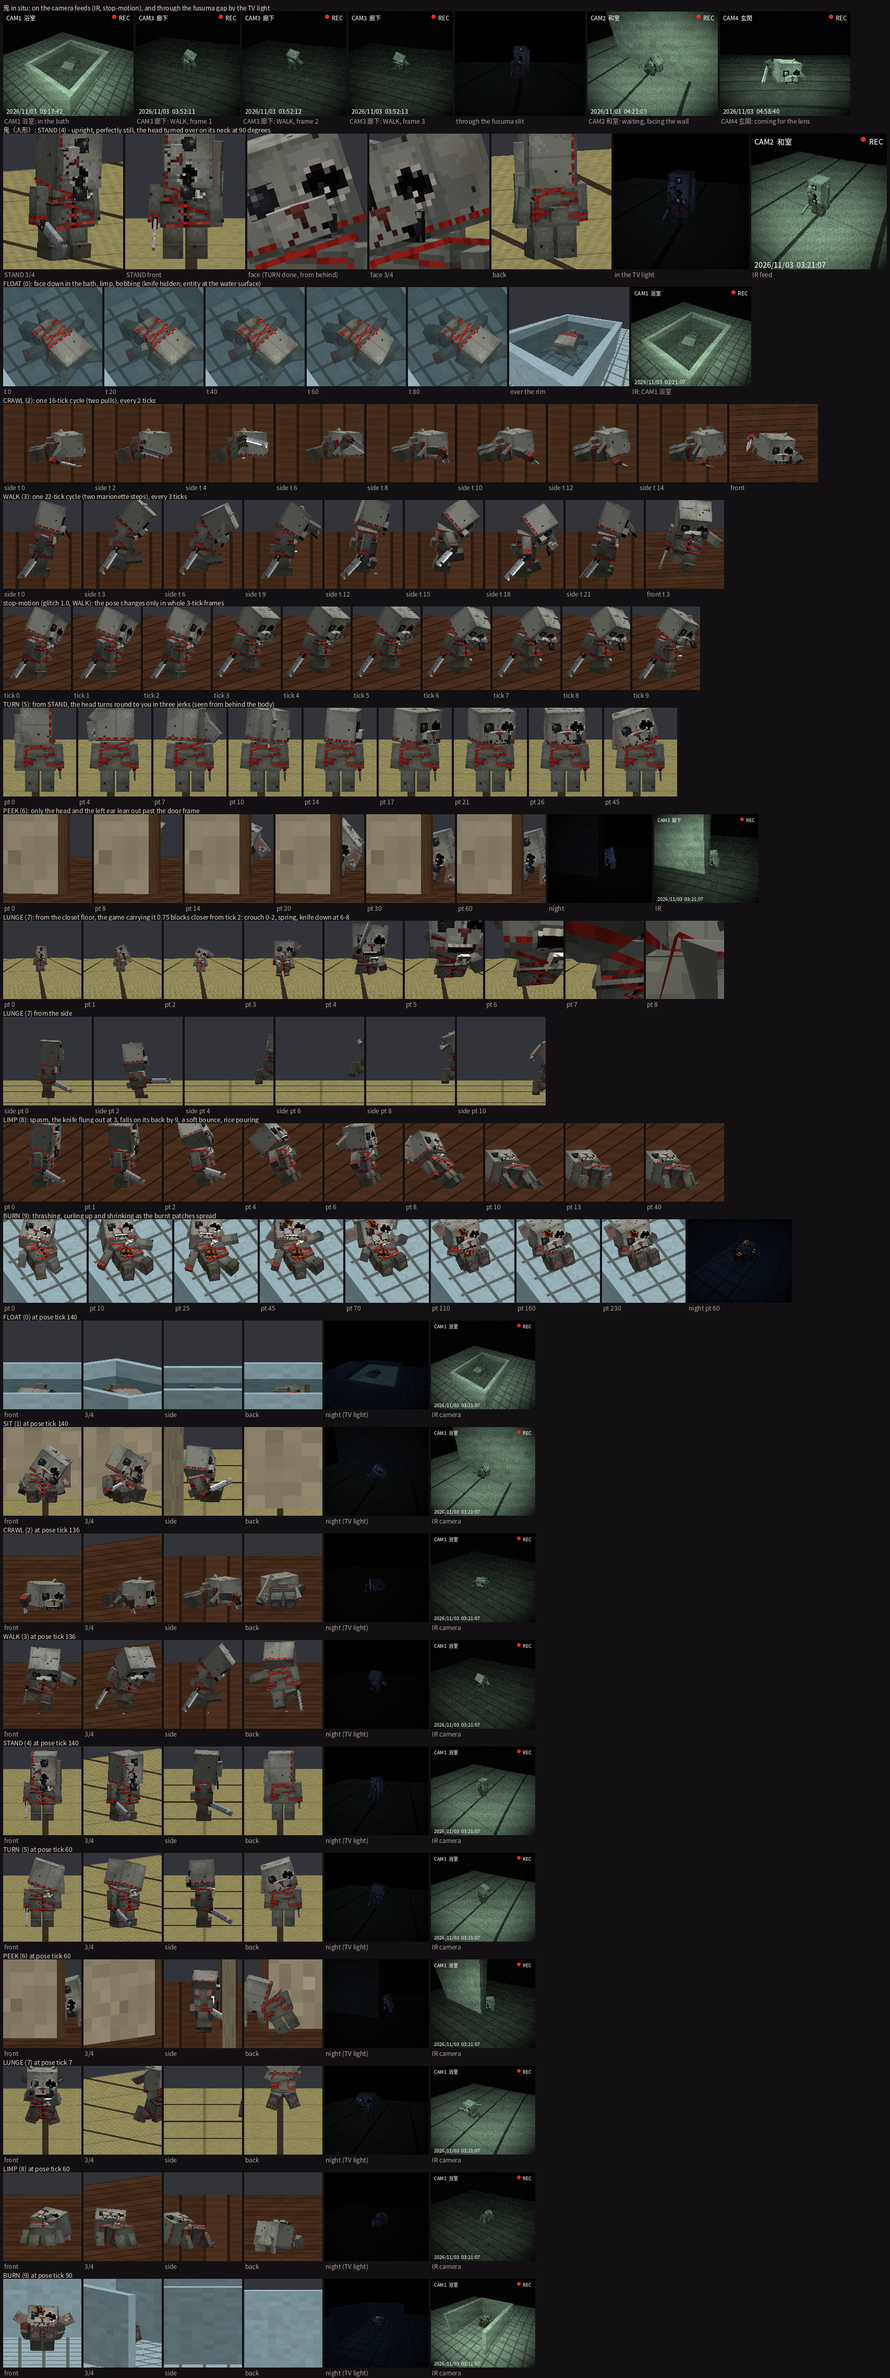
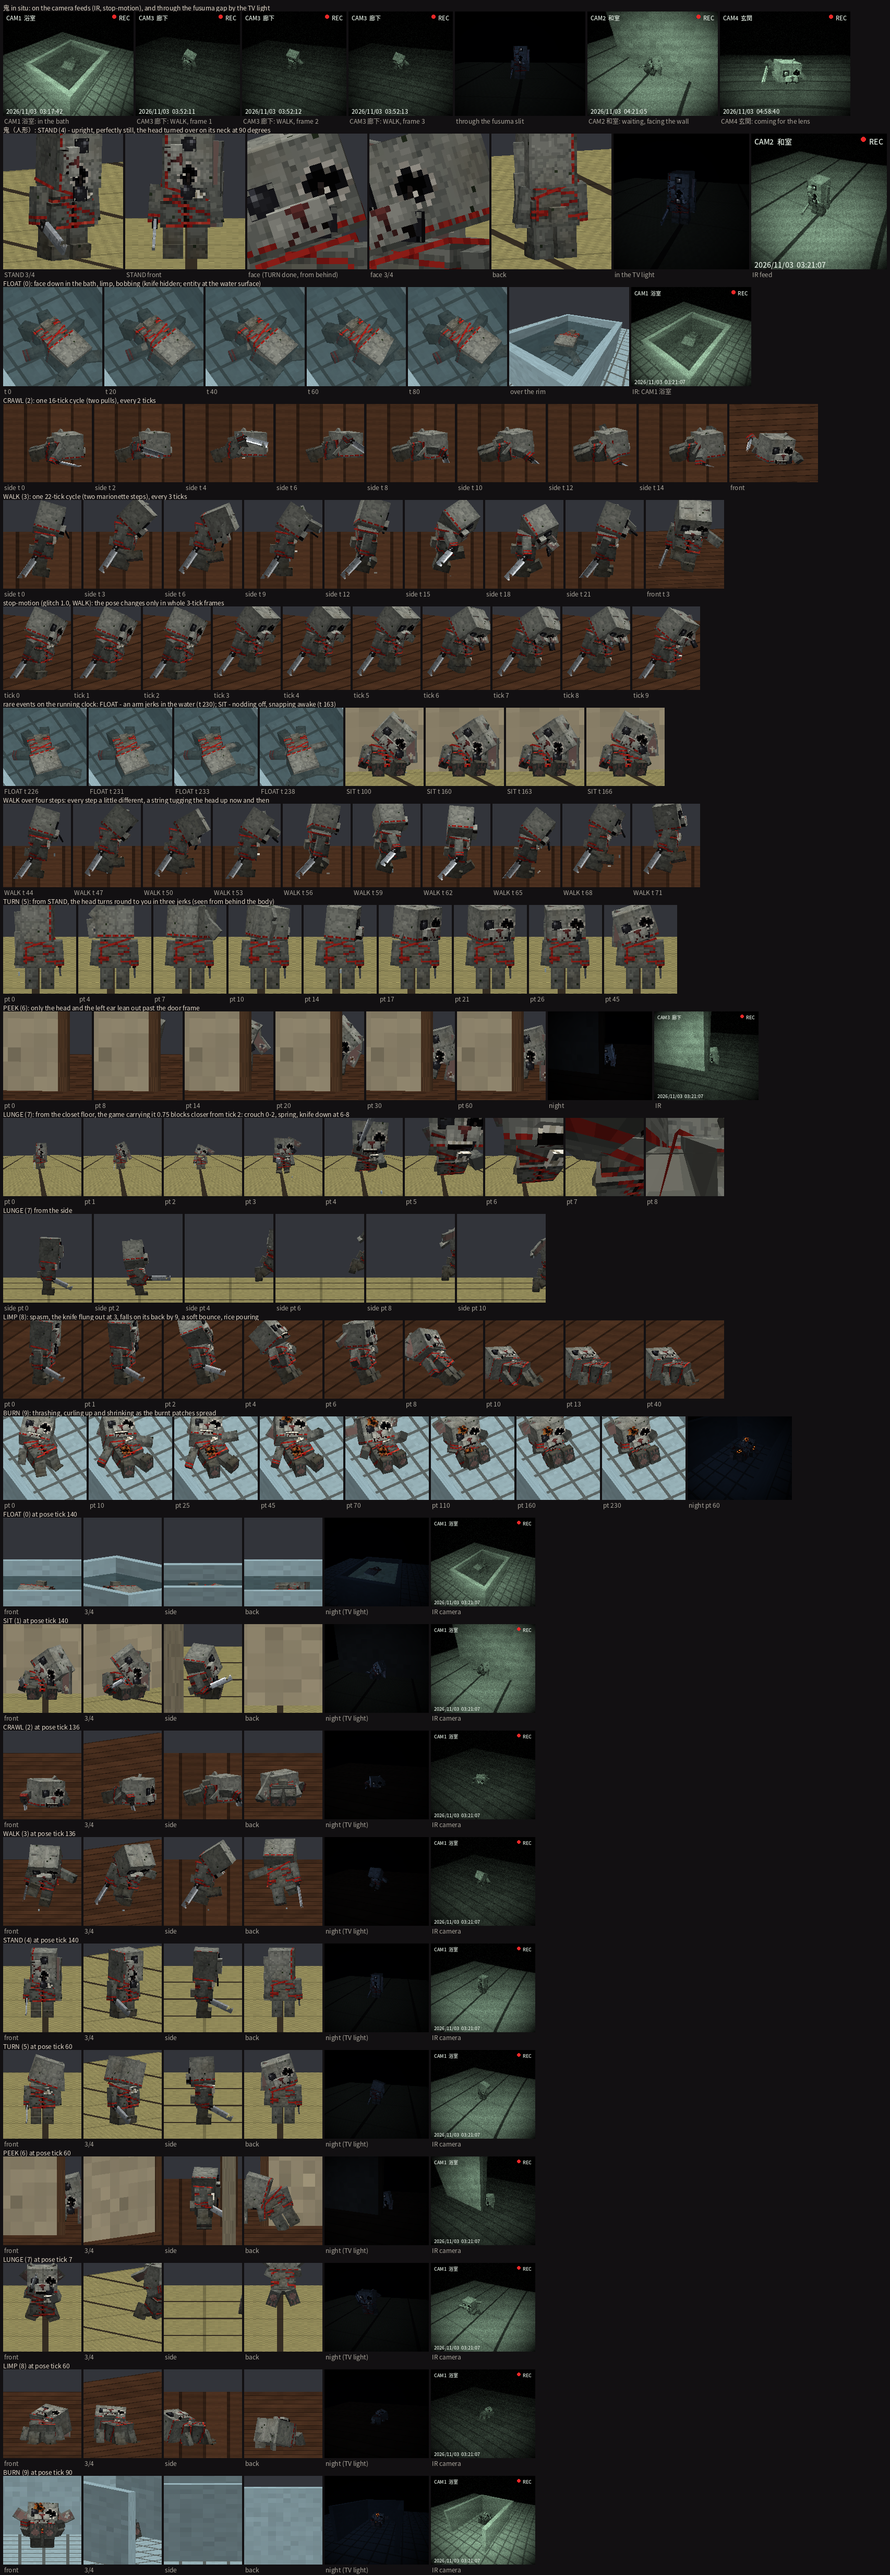
Doll: matted wet-fur clumps; rare events on its running clock (an arm jerking in the bath, nodding off and snapping awake while sitting, string tugs between marionette steps, the peeking ear flicking)
Claude-Session: https://claude.ai/code/session_017h8AWA8SMb3MbjFEftA5Gv

diff --git a/tools/art/ent_oni_doll.py b/tools/art/ent_oni_doll.py
@@ -52,8 +52,9 @@ class OniDoll(Spec):
     joints the wrong way for a few ticks, glitch 0.5..1 also drops frames (at 1 the pose only changes in whole
     3-tick frames). Floppy parts (ears, the hanging eye, the loose thread, limp limbs) are damped springs on the same
     clock, so they too freeze and step with it.
-    Pose ids: 0 FLOAT (face down in the water, limp, bobbing; the knife is hidden; put the entity at the water
-    surface), 1 SIT (slumped against a wall behind it, head lolling, the knife lying on the floor in its paw),
+    Pose ids: 0 FLOAT (face down in the water, limp, bobbing, every ~23 s an arm jerks; the knife is hidden; put the
+    entity at the water surface), 1 SIT (slumped against a wall behind it, head lolling, nodding off and snapping
+    awake every 13 s; the knife lying on the floor in its paw),
     2 CRAWL (dragging itself on its arms, legs and ears trailing; one pull every 8 ticks, ~0.28 blocks each, so
     move it at ~0.035 blocks/tick; the knife strikes the floor at clock 16n + 9), 3 WALK (stiff marionette steps
     with a step every 11 ticks covering ~0.2 blocks (~0.018 blocks/tick), swaying as if on strings, the knife dragging
@@ -171,16 +172,34 @@ class OniDoll(Spec):
             ys, xs = np.mgrid[0:f.h, 0:f.w]
             return np.minimum(np.minimum(xs, f.w - 1 - xs), np.minimum(ys, f.h - 1 - ys))
 
+        # wet plush mats into clumps: a jittered 3D grid of clump centres (rest pose, model pixels)
+        from scipy.spatial import cKDTree
+        cr = np.random.default_rng(4242)
+        g = np.mgrid[-4.0:4.01:0.9, 10.0:25.01:0.9, -4.0:3.01:0.9].reshape(3, -1).T
+        seeds = g + cr.uniform(-0.38, 0.38, g.shape)
+        seed_tone = cr.normal(0, 0.35, len(seeds))
+        tree = cKDTree(seeds)
+
+        def clumps(Pp):
+            """(light-top / dark-bottom gradient inside each clump, crevice darkness between them, per-clump tone)"""
+            q = Pp.reshape(-1, 3)
+            dd, ii = tree.query(q, k=2)
+            rel = (q[:, 1] - seeds[ii[:, 0], 1]) / 0.6
+            grad = -np.clip(rel, -1, 1)
+            crev = np.clip(1.0 - (dd[:, 1] - dd[:, 0]) / 0.22, 0, 1)
+            sh = Pp.shape[:-1]
+            return grad.reshape(sh), crev.reshape(sh), seed_tone[ii[:, 0]].reshape(sh)
+
         def fur_v(f, base, wet, puff):
-            """Wet plush value (palette index): soaked heavier toward the bottom, matted clumps, puffy cushion edges."""
+            """Wet plush value (palette index): soaked heavier toward the bottom, matted into clumps that catch the
+            light on top and go dark underneath and between, puffy cushion edges."""
             Pp = f.positions()
             nrm = f.normal()
             y = Pp[..., 1]
             wetness = (0.3 + 0.7 * np.clip((y - 13.0) / 11.0, 0, 1) ** 1.4) * wet + 0.15 * pt.n3b(Pp * 0.6 + 5.0)
-            clump = pt.n3(Pp * 1.7)
+            grad, crev, tone = clumps(Pp)
             fine = pt.n3c(Pp * 3.2)
-            v = base - wetness * 2.4 + clump * 0.6 + fine * 0.18 - nrm[1] * 0.45
-            v = np.where(clump < -0.5, v - 0.55, v)
+            v = base - wetness * 2.4 + grad * 0.55 - crev * 1.1 + tone + fine * 0.15 - nrm[1] * 0.45
             e = edge_dist(f)
             v = v - puff * np.select([e == 0, e == 1, e == 2], [1.05, 0.45, 0.15], 0.0)
             for (cx, cy, cz, rad, k) in ((0, 17.5, 0, 2.0, 1.1), (-2.2, 18.0, 0, 1.1, 0.8), (2.2, 18.0, 0, 1.1, 0.8),
@@ -503,6 +522,15 @@ private static float jolt(float t, float seed, float g) {
     return hash(i + seed * 7.1F) * 2.0F - 1.0F;
 }
 
+/** A flick every `period` ticks: up in two ticks, back down over four (t must be >= 0). */
+private static float flick(float t, float period, float phase) {
+    float m = (t + phase) % period;
+    if (m < 2.0F) {
+        return m * 0.5F;
+    }
+    return m < 6.0F ? 1.0F - (m - 2.0F) / 4.0F : 0.0F;
+}
+
 /** One marionette step (s = 0..1): yanked up fast, hangs in the air, drops like a dead weight. */
 private static float lift(float s) {
     if (s < 0.16F) {
@@ -597,6 +625,11 @@ if (pose == FLOAT) {
     earGy = 0.35F;
     earGz = -0.75F;
     earSpread = 0.85F;
+    // something moves in the water: every ~23 s its left arm jerks and the head rolls a little
+    float tw = flick(t, 460.0F, 230.0F);
+    this.armL.zRot = this.armL.zRot - 0.6F * tw;
+    this.pawL.xRot = -0.9F * tw;
+    this.head.zRot = this.head.zRot + 0.18F * tw;
     this.knife.visible = false;
     drips = 0.0F;
     blend = 10.0F;
@@ -614,8 +647,11 @@ if (pose == FLOAT) {
     this.legL.yRot = -0.2F;
     this.footR.xRot = 0.25F;
     this.footL.xRot = 0.3F;
-    this.head.zRot = 0.6F + loll + j1 * 0.4F;
-    this.head.xRot = 0.48F + Mth.sin(t * 0.017F + 1.0F) * 0.05F;
+    // nodding off: the head sinks further and further for four seconds, then snaps back up
+    float nod = (t + 37.0F) % 260.0F;
+    float droop = nod < 200.0F ? span(nod, 120.0F, 198.0F) : 1.0F - span(nod, 200.0F, 202.5F);
+    this.head.zRot = 0.6F + loll + 0.5F * droop + j1 * 0.4F;
+    this.head.xRot = 0.48F + Mth.sin(t * 0.017F + 1.0F) * 0.05F + 0.22F * droop;
     this.head.x = 0.35F;
     this.armR.zRot = 0.55F;
     this.armR.xRot = -0.35F;
@@ -681,7 +717,11 @@ if (pose == FLOAT) {
     float u = cyc - (float) Mth.floor(cyc);
     float right = u < 0.5F ? 1.0F : 0.0F;
     float s = u < 0.5F ? u * 2.0F : u * 2.0F - 1.0F;
-    float lf = lift(s);
+    // every step a little different; now and then a string tugs the head up and hoists it higher
+    float step = (float) Mth.floor(t / 11.0F);
+    float tug = hash(step * 3.7F + 1.0F) < 0.34F ? 1.0F : 0.0F;
+    float la = lift(s);
+    float lf = la * (0.85F + 0.3F * hash(step * 1.3F + 7.0F)) * (1.0F + 0.35F * tug);
     float side = right * 2.0F - 1.0F;
     float land = wobble((s - 0.64F) * 11.0F, 1.3F, 0.55F);
     this.body.y = 21.0F - lf * 1.1F + land * 0.25F;
@@ -697,13 +737,13 @@ if (pose == FLOAT) {
     this.footR.xRot = right > 0.5F ? 1.0F * lf : 0.0F;
     this.footL.xRot = right > 0.5F ? 0.0F : 1.0F * lf;
     // the strings on the wrists: the arm opposite the lifted leg is jerked up and dropped with it
-    this.armL.zRot = -0.12F - (right > 0.5F ? 1.5F * lf : 0.0F);
-    this.armL.xRot = right > 0.5F ? -0.3F * lf : 0.05F;
-    this.armR.zRot = 0.1F + (right > 0.5F ? 0.0F : 1.25F * lf);
-    this.armR.xRot = 0.3F - (right > 0.5F ? 0.0F : 0.5F * lf);
+    this.armL.zRot = -0.12F - (right > 0.5F ? 1.5F * la : 0.0F);
+    this.armL.xRot = right > 0.5F ? -0.3F * la : 0.05F;
+    this.armR.zRot = 0.1F + (right > 0.5F ? 0.0F : 1.25F * la);
+    this.armR.xRot = 0.3F - (right > 0.5F ? 0.0F : 0.5F * la);
     this.knife.xRot = 0.8F;
     // the blade trails behind on the floor, except while its arm is jerked up on the string
-    knifeAim = 1.0F - (right > 0.5F ? 0.0F : lf);
+    knifeAim = 1.0F - (right > 0.5F ? 0.0F : la);
     kgx = -0.12F;
     kgy = 0.82F;
     kgz = 0.56F;
@@ -711,7 +751,7 @@ if (pose == FLOAT) {
     armW = 0.7F;
     armZ = 0.35F;
     this.head.zRot = chase(mem, 40, -this.body.zRot * 1.4F + 0.3F, 0.45F, 0.22F, t) + j1 * 0.5F;
-    this.head.xRot = 0.42F + chase(mem, 41, lf * 0.35F, 0.55F, 0.25F, t);
+    this.head.xRot = 0.42F + chase(mem, 41, lf * 0.35F - tug * lf * 0.75F, 0.55F, 0.25F, t);
     earFlop = 0.82F;
     grains = 1.0F;
     blend = 5.0F;
@@ -740,6 +780,7 @@ if (pose == FLOAT) {
     this.knife.xRot = -0.95F;
     armFlop = 0.5F;
     earFlop = 0.88F;
+    earGx = 0.9F * flick(t, 130.0F, 50.0F);
     blend = 4.0F;
 } else if (pose == LUNGE) {
     // the jump scare: a crouch, then it springs at your face, knife raised over its head, the mouth seam tearing
@@ -993,6 +1034,22 @@ def previews(b, ER, rows_sel=None):
             ims.append((f'tick {k}', b.view([(0, 3)], 330 + k, yaw_view=-60, pitch_view=10, size=(130, 160), ortho=0.42, center_y=0.3,
                                             glitch=lambda tt: 1.0, scene=SC.flooring())))
         rows.append(('stop-motion (glitch 1.0, WALK): the pose changes only in whole 3-tick frames', ims))
+    if sel('events'):
+        ims = []
+        for tt in (226, 231, 233, 238):
+            ims.append((f'FLOAT t {tt}', b.view([(0, 0)], float(tt), yaw_view=-30, pitch_view=55, size=(160, 150), ortho=0.45,
+                                                center_y=0.0, scene=SC.bathtub())))
+        for tt in (100, 160, 163, 166):
+            ims.append((f'SIT t {tt}', b.view([(0, 1)], float(tt), yaw_view=-15, pitch_view=8, size=(150, 150), ortho=0.36,
+                                              center_y=0.25, scene=SC.wall_behind())))
+        rows.append(('rare events on the running clock: FLOAT - an arm jerks in the water (t 230); SIT - nodding off, '
+                     'snapping awake (t 163)', ims))
+        ims = []
+        for k in range(10):
+            tt = 22.0 * 2 + k * 3.0
+            ims.append((f'WALK t {int(tt)}', b.view([(0, 3)], tt, yaw_view=-90, pitch_view=6, size=(130, 160), ortho=0.42,
+                                                   center_y=0.32, scene=SC.flooring())))
+        rows.append(('WALK over four steps: every step a little different, a string tugging the head up now and then', ims))
     if sel('turn'):
         ims = []
         for ptv in (0, 4, 7, 10, 14, 17, 21, 26, 45):

diff --git a/src/main/java/com/hitori/client/model/OniDollModel.java b/src/main/java/com/hitori/client/model/OniDollModel.java
@@ -28,8 +28,9 @@ import net.minecraft.world.entity.Mob;
  * joints the wrong way for a few ticks, glitch 0.5..1 also drops frames (at 1 the pose only changes in whole
  * 3-tick frames). Floppy parts (ears, the hanging eye, the loose thread, limp limbs) are damped springs on the same
  * clock, so they too freeze and step with it.
- * Pose ids: 0 FLOAT (face down in the water, limp, bobbing; the knife is hidden; put the entity at the water
- * surface), 1 SIT (slumped against a wall behind it, head lolling, the knife lying on the floor in its paw),
+ * Pose ids: 0 FLOAT (face down in the water, limp, bobbing, every ~23 s an arm jerks; the knife is hidden; put the
+ * entity at the water surface), 1 SIT (slumped against a wall behind it, head lolling, nodding off and snapping
+ * awake every 13 s; the knife lying on the floor in its paw),
  * 2 CRAWL (dragging itself on its arms, legs and ears trailing; one pull every 8 ticks, ~0.28 blocks each, so
  * move it at ~0.035 blocks/tick; the knife strikes the floor at clock 16n + 9), 3 WALK (stiff marionette steps
  * with a step every 11 ticks covering ~0.2 blocks (~0.018 blocks/tick), swaying as if on strings, the knife dragging
@@ -279,6 +280,11 @@ public class OniDollModel<T extends Mob & Animated> extends HierarchicalModel<T>
             earGy = 0.35F;
             earGz = -0.75F;
             earSpread = 0.85F;
+            // something moves in the water: every ~23 s its left arm jerks and the head rolls a little
+            float tw = flick(t, 460.0F, 230.0F);
+            this.armL.zRot = this.armL.zRot - 0.6F * tw;
+            this.pawL.xRot = -0.9F * tw;
+            this.head.zRot = this.head.zRot + 0.18F * tw;
             this.knife.visible = false;
             drips = 0.0F;
             blend = 10.0F;
@@ -296,8 +302,11 @@ public class OniDollModel<T extends Mob & Animated> extends HierarchicalModel<T>
             this.legL.yRot = -0.2F;
             this.footR.xRot = 0.25F;
             this.footL.xRot = 0.3F;
-            this.head.zRot = 0.6F + loll + j1 * 0.4F;
-            this.head.xRot = 0.48F + Mth.sin(t * 0.017F + 1.0F) * 0.05F;
+            // nodding off: the head sinks further and further for four seconds, then snaps back up
+            float nod = (t + 37.0F) % 260.0F;
+            float droop = nod < 200.0F ? span(nod, 120.0F, 198.0F) : 1.0F - span(nod, 200.0F, 202.5F);
+            this.head.zRot = 0.6F + loll + 0.5F * droop + j1 * 0.4F;
+            this.head.xRot = 0.48F + Mth.sin(t * 0.017F + 1.0F) * 0.05F + 0.22F * droop;
             this.head.x = 0.35F;
             this.armR.zRot = 0.55F;
             this.armR.xRot = -0.35F;
@@ -363,7 +372,11 @@ public class OniDollModel<T extends Mob & Animated> extends HierarchicalModel<T>
             float u = cyc - (float) Mth.floor(cyc);
             float right = u < 0.5F ? 1.0F : 0.0F;
             float s = u < 0.5F ? u * 2.0F : u * 2.0F - 1.0F;
-            float lf = lift(s);
+            // every step a little different; now and then a string tugs the head up and hoists it higher
+            float step = (float) Mth.floor(t / 11.0F);
+            float tug = hash(step * 3.7F + 1.0F) < 0.34F ? 1.0F : 0.0F;
+            float la = lift(s);
+            float lf = la * (0.85F + 0.3F * hash(step * 1.3F + 7.0F)) * (1.0F + 0.35F * tug);
             float side = right * 2.0F - 1.0F;
             float land = wobble((s - 0.64F) * 11.0F, 1.3F, 0.55F);
             this.body.y = 21.0F - lf * 1.1F + land * 0.25F;
@@ -379,13 +392,13 @@ public class OniDollModel<T extends Mob & Animated> extends HierarchicalModel<T>
             this.footR.xRot = right > 0.5F ? 1.0F * lf : 0.0F;
             this.footL.xRot = right > 0.5F ? 0.0F : 1.0F * lf;
             // the strings on the wrists: the arm opposite the lifted leg is jerked up and dropped with it
-            this.armL.zRot = -0.12F - (right > 0.5F ? 1.5F * lf : 0.0F);
-            this.armL.xRot = right > 0.5F ? -0.3F * lf : 0.05F;
-            this.armR.zRot = 0.1F + (right > 0.5F ? 0.0F : 1.25F * lf);
-            this.armR.xRot = 0.3F - (right > 0.5F ? 0.0F : 0.5F * lf);
+            this.armL.zRot = -0.12F - (right > 0.5F ? 1.5F * la : 0.0F);
+            this.armL.xRot = right > 0.5F ? -0.3F * la : 0.05F;
+            this.armR.zRot = 0.1F + (right > 0.5F ? 0.0F : 1.25F * la);
+            this.armR.xRot = 0.3F - (right > 0.5F ? 0.0F : 0.5F * la);
             this.knife.xRot = 0.8F;
             // the blade trails behind on the floor, except while its arm is jerked up on the string
-            knifeAim = 1.0F - (right > 0.5F ? 0.0F : lf);
+            knifeAim = 1.0F - (right > 0.5F ? 0.0F : la);
             kgx = -0.12F;
             kgy = 0.82F;
             kgz = 0.56F;
@@ -393,7 +406,7 @@ public class OniDollModel<T extends Mob & Animated> extends HierarchicalModel<T>
             armW = 0.7F;
             armZ = 0.35F;
             this.head.zRot = chase(mem, 40, -this.body.zRot * 1.4F + 0.3F, 0.45F, 0.22F, t) + j1 * 0.5F;
-            this.head.xRot = 0.42F + chase(mem, 41, lf * 0.35F, 0.55F, 0.25F, t);
+            this.head.xRot = 0.42F + chase(mem, 41, lf * 0.35F - tug * lf * 0.75F, 0.55F, 0.25F, t);
             earFlop = 0.82F;
             grains = 1.0F;
             blend = 5.0F;
@@ -422,6 +435,7 @@ public class OniDollModel<T extends Mob & Animated> extends HierarchicalModel<T>
             this.knife.xRot = -0.95F;
             armFlop = 0.5F;
             earFlop = 0.88F;
+            earGx = 0.9F * flick(t, 130.0F, 50.0F);
             blend = 4.0F;
         } else if (pose == LUNGE) {
             // the jump scare: a crouch, then it springs at your face, knife raised over its head, the mouth seam tearing
@@ -676,6 +690,15 @@ public class OniDollModel<T extends Mob & Animated> extends HierarchicalModel<T>
             return 0.0F;
         }
         return hash(i + seed * 7.1F) * 2.0F - 1.0F;
+    }
+
+    /** A flick every `period` ticks: up in two ticks, back down over four (t must be >= 0). */
+    private static float flick(float t, float period, float phase) {
+        float m = (t + phase) % period;
+        if (m < 2.0F) {
+            return m * 0.5F;
+        }
+        return m < 6.0F ? 1.0F - (m - 2.0F) / 4.0F : 0.0F;
     }
 
     /** One marionette step (s = 0..1): yanked up fast, hangs in the air, drops like a dead weight. */
